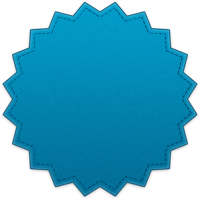
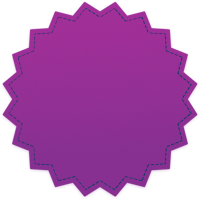
improved badge contrast

diff --git a/css/main.scss b/css/main.scss
@@ -304,7 +304,7 @@ main {
             text-align: center;
             display: block;
             transform: rotate(15deg);
-            color: #184A63;
+            color: #550046;
             font-weight: bold;
             font-size: 1em;
             line-height: 1.2em;

diff --git a/css/main.css b/css/main.css
@@ -247,7 +247,7 @@ main {
     text-align: center;
     display: block;
     transform: rotate(15deg);
-    color: #184A63;
+    color: #550046;
     font-weight: bold;
     font-size: 1em;
     line-height: 1.2em; }
